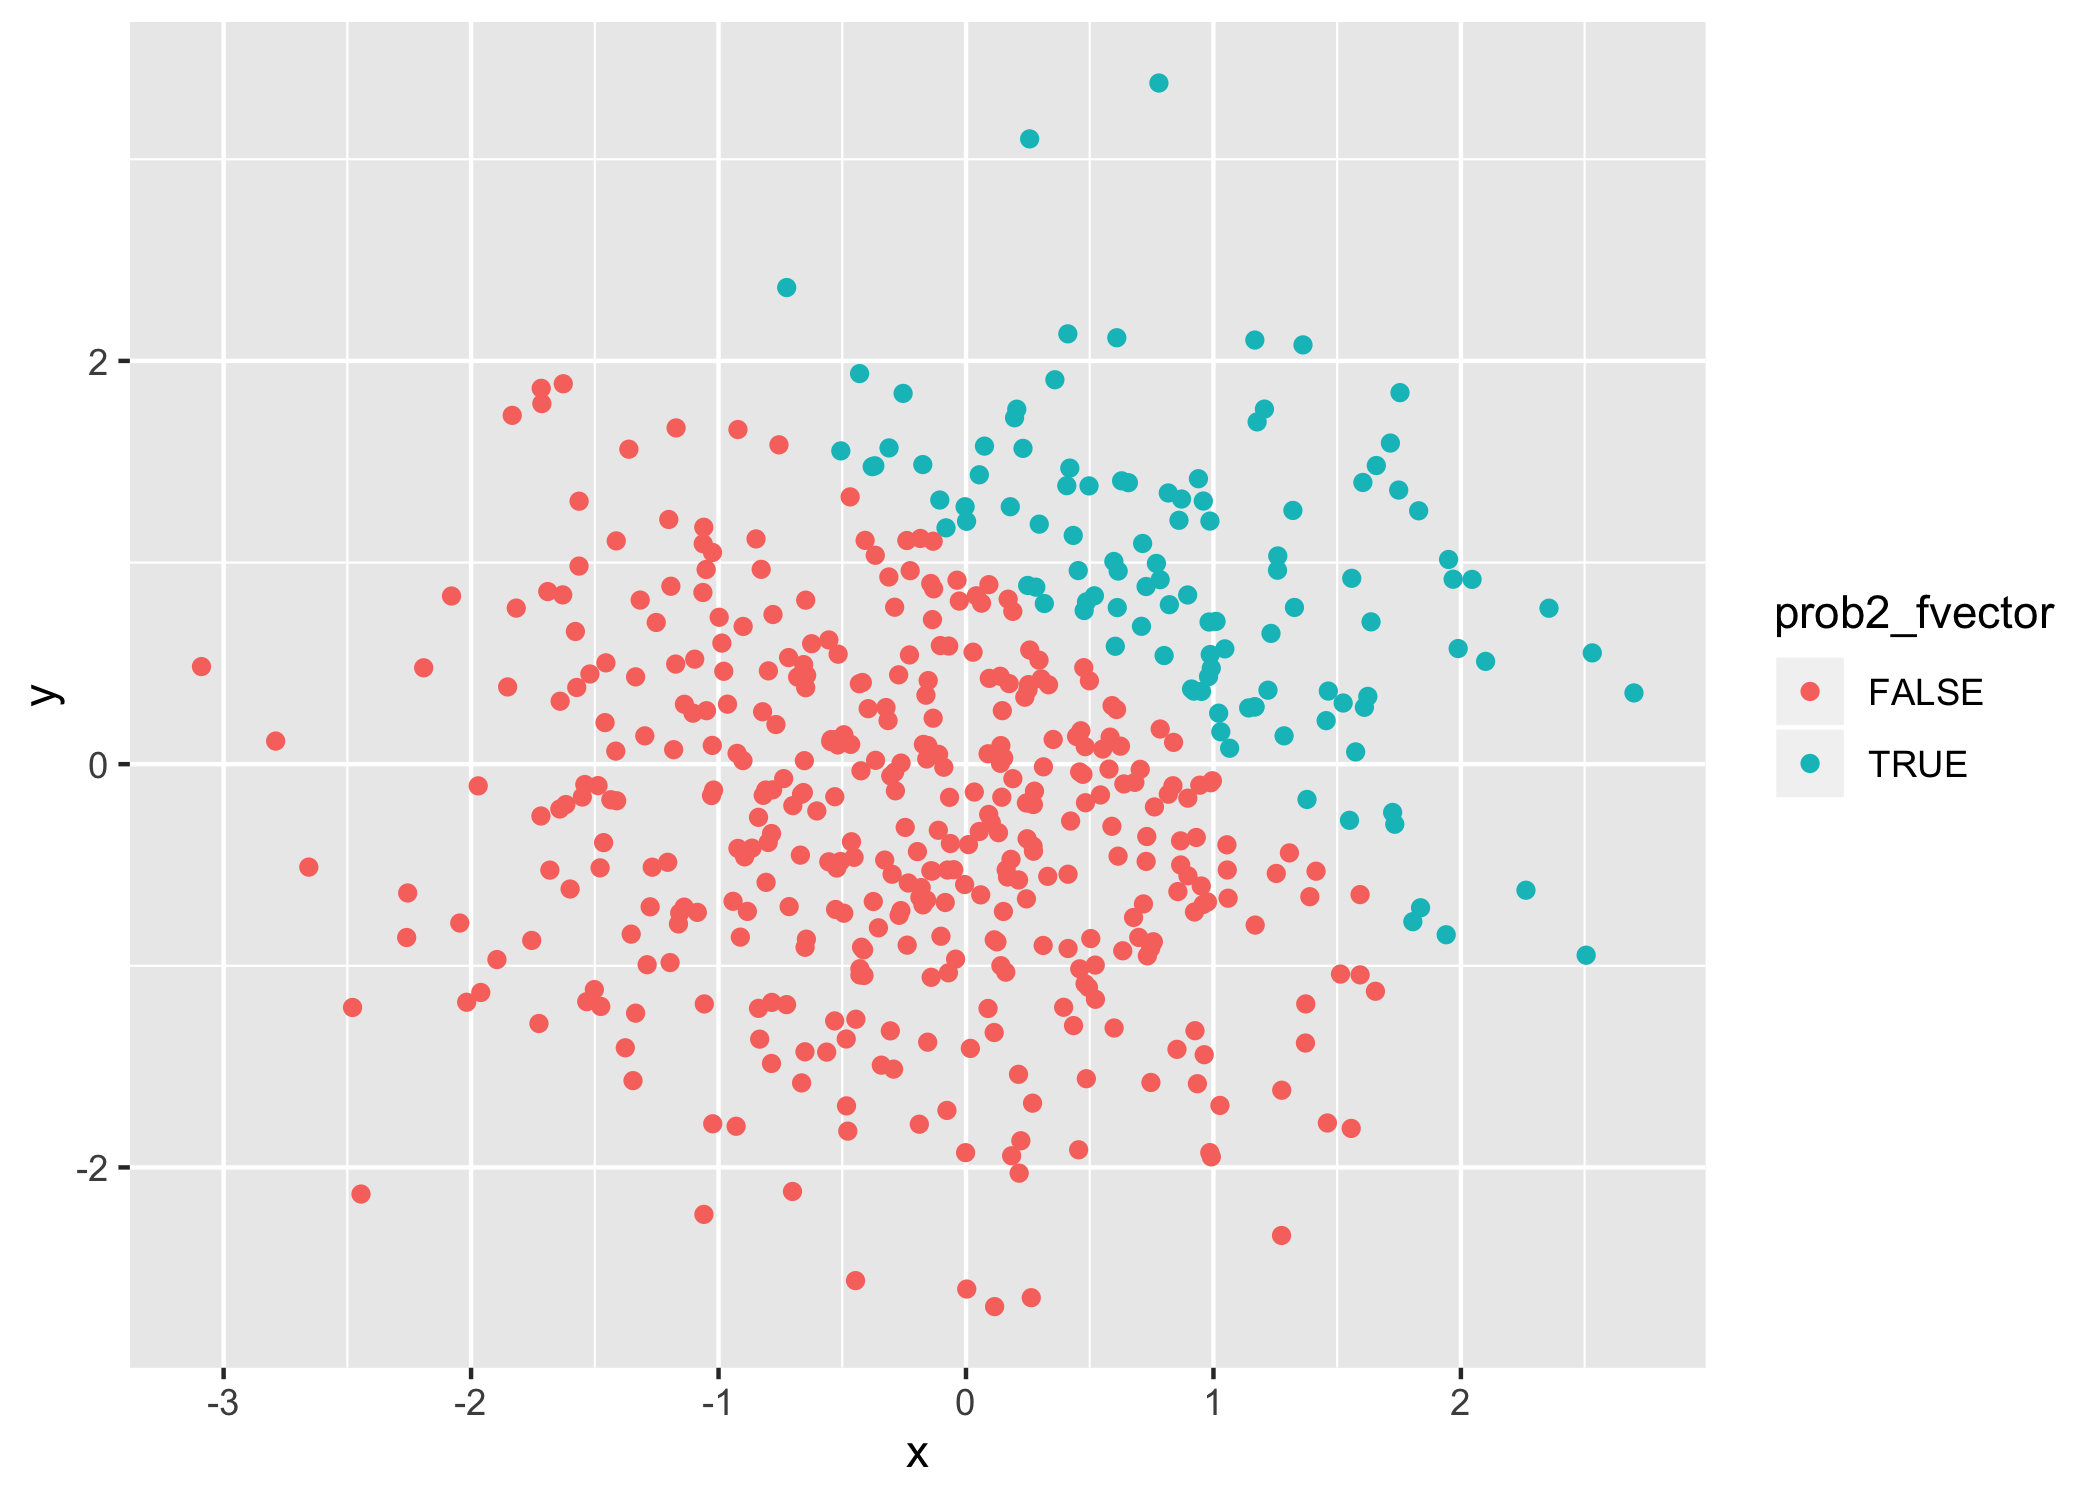
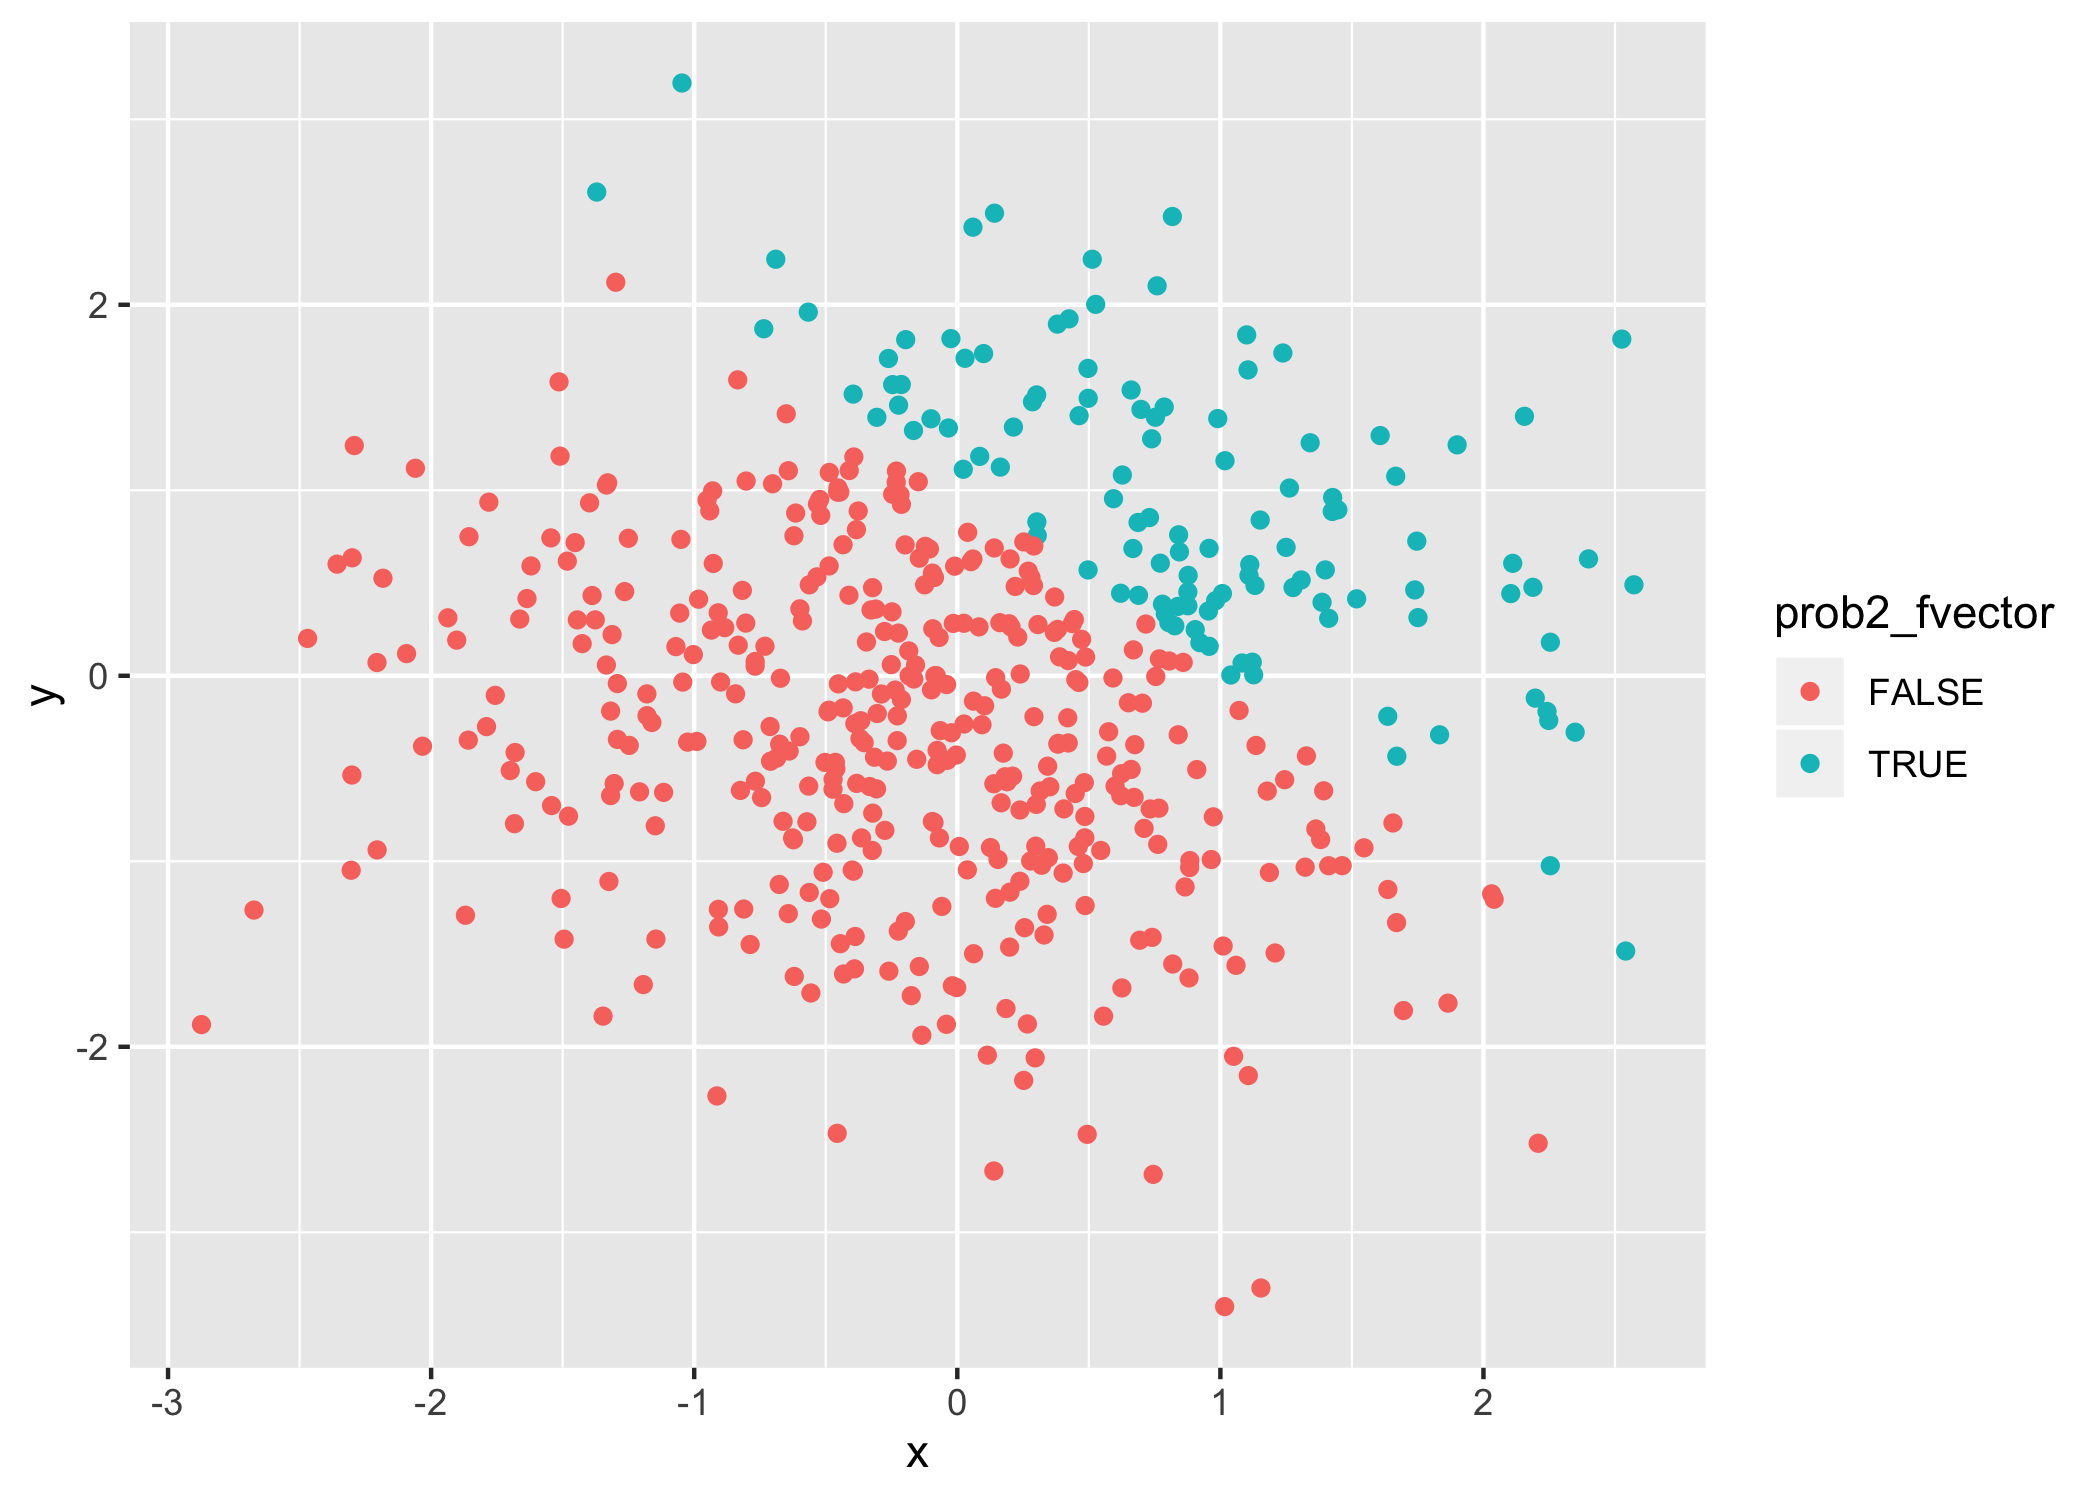
Done! Need to review before final push

diff --git a/p8105_hw1_hf2379.md b/p8105_hw1_hf2379.md
@@ -1,5 +1,7 @@
-Homework Problem
+Homework \# 1
 ================
+Holly Finertie (HF2379), Due:
+2019-09-20
 
 # Problem1
 
@@ -16,7 +18,7 @@ prob1_df = tibble (
 
 ## Try to take the mean of each variable:
 
-  - The mean of the sample size is -0.4825472.
+  - The mean of the sample size is 0.0197641.
 
   - The mean of the logical statement is 0.375.
 
@@ -47,8 +49,8 @@ the
 as.numeric(pull(prob1_df, prob1_sample_over0))*pull(prob1_df, prob1_sample)
 ```
 
-    ## [1] 0.04511122 0.00000000 0.00000000 0.00000000 0.00000000 0.65555355
-    ## [7] 0.00000000 1.13817242
+    ## [1] 1.7188590 0.0000000 0.0000000 1.3644171 0.6082492 0.0000000 0.0000000
+    ## [8] 0.0000000
 
 ``` r
 as.factor(pull(prob1_df, prob1_sample_over0))*pull(prob1_df, prob1_sample)
@@ -63,8 +65,8 @@ as.factor(pull(prob1_df, prob1_sample_over0))*pull(prob1_df, prob1_sample)
 as.numeric(as.factor(pull(prob1_df, prob1_sample_over0)))*pull(prob1_df, prob1_sample)
 ```
 
-    ## [1]  0.09022244 -0.68665428 -1.58562845 -0.19314386 -0.51069451  1.31110709
-    ## [7] -2.72309344  2.27634484
+    ## [1]  3.4377180 -0.9292944 -1.1350257  2.7288342  1.2164985 -1.0547636
+    ## [7] -0.3088940 -0.1054346
 
 # Problem 2
 
@@ -82,14 +84,14 @@ prob2_df = tibble(
 
   - This dataset contains 500 rows and 5 columns
 
-  - the mean of x is -0.0280286
+  - the mean of x is 0.015547
 
-  - the median of x is -0.0026465
+  - the median of x is -0.0030035
 
-  - the standard deviation of x is 0.9930671
+  - the standard deviation of x is 0.9920914
 
   - the proportion of cases for which x + y \> 1 is
-0.224
+0.234
 
 ## Plots for Problem 2
 
@@ -130,7 +132,7 @@ plot3
     respectively. That’s because the color assignments are based on the
     values for our factor vector which are either TRUE or FALSE.
 
-<!-- end list -->
+## Saving my scatterplots
 
 ``` r
 ggsave(plot1, file = "plot1.png")
@@ -149,3 +151,5 @@ ggsave(plot3, file = "plot3.png")
 ```
 
     ## Saving 7 x 5 in image
+
+## Done with HW 1\!
